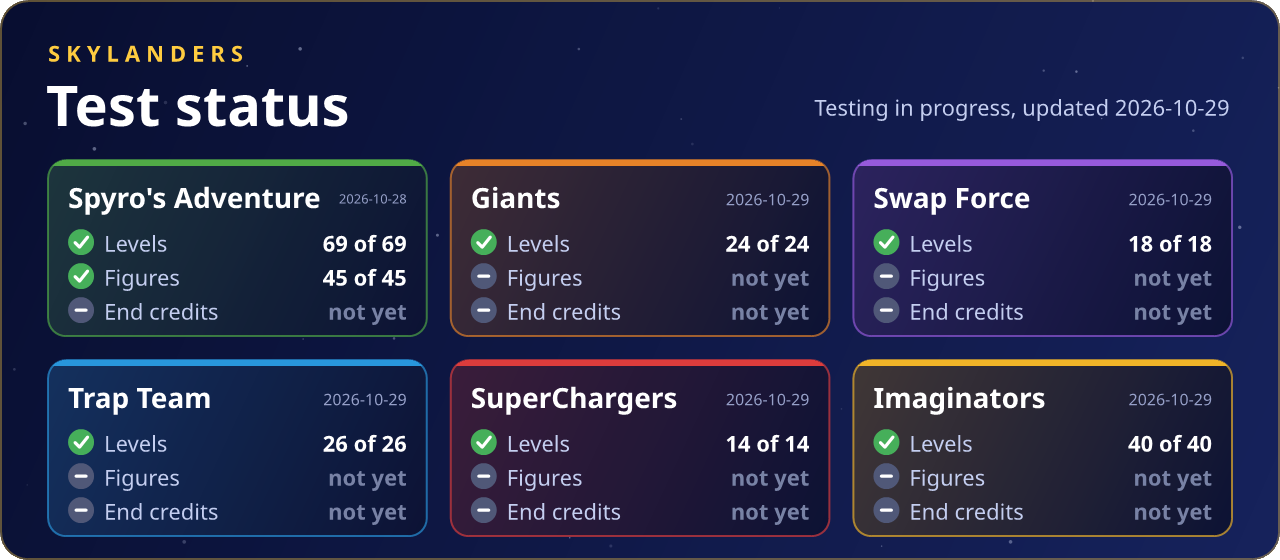
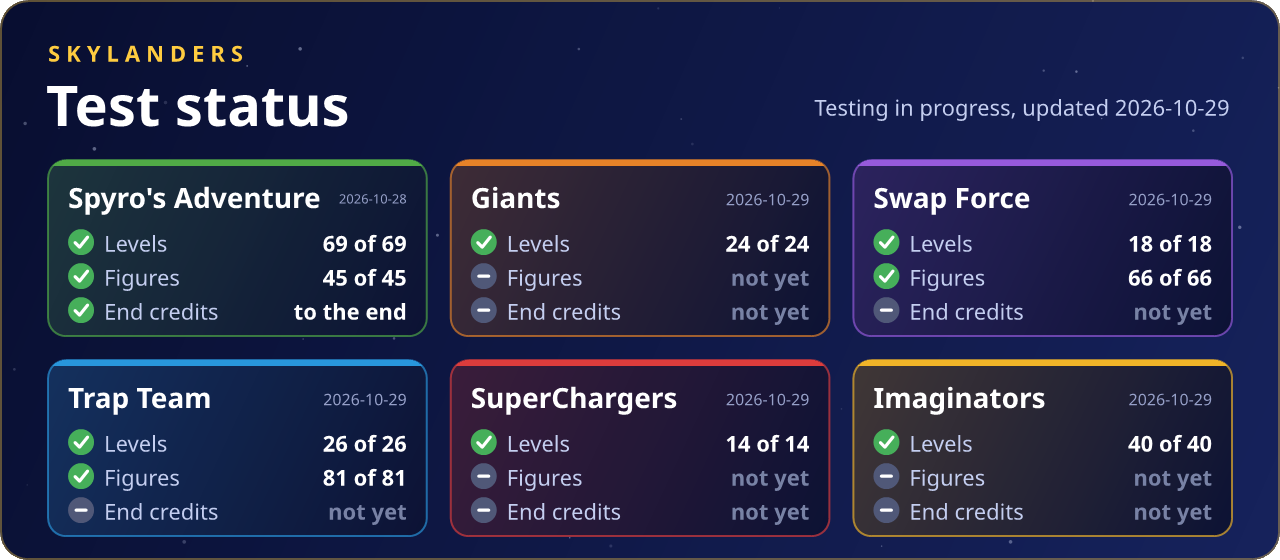
docs(testing): Trap Team and Swap Force figures, Spyro's Adventure credits
Every Trap Team figure (81) and every Swap Force figure and swapper (66) went on the portal as a
new one and came into the game; Spyro's Adventure's end credits played to the end.

diff --git a/TESTING.md b/TESTING.md
@@ -12,10 +12,10 @@ It doesn't replace playing: quests, bosses and two players still need people. [R
 
 | Game | Tested build | Levels | Figures | End credits |
 |---|---|---|---|---|
-| Spyro's Adventure | 0.3.0-beta.3+ (2026-10-28) | **69 of 69** | **45 of 45** | not yet |
+| Spyro's Adventure | 0.3.0-beta.3+ (2026-10-28) | **69 of 69** | **45 of 45** | to the end |
 | Giants | 0.3.0-beta.6, not out yet (2026-10-29) | **24 of 24** | not yet | not yet |
-| Swap Force | 0.3.0-beta.6, not out yet (2026-10-29) | **18 of 18** | not yet | not yet |
-| Trap Team | 0.3.0-beta.6, not out yet (2026-10-29) | **26 of 26** | not yet | not yet |
+| Swap Force | 0.3.0-beta.6, not out yet (2026-10-29) | **18 of 18** | **66 of 66** | not yet |
+| Trap Team | 0.3.0-beta.6, not out yet (2026-10-29) | **26 of 26** | **81 of 81** | not yet |
 | SuperChargers | 0.3.0-beta.6, not out yet (2026-10-29) | **14 of 14** | not yet | not yet |
 | Imaginators | 0.3.0-beta.6, not out yet (2026-10-29) | **40 of 40** | not yet | not yet |
 
@@ -33,6 +33,7 @@ Tested build: 0.3.0-beta.3+ (2026-10-28)
 | Skylanders, each as a new figure | 32 of 32 |
 | Variants, each as a new figure | 5 of 5 |
 | Magic items, each as a new figure | 8 of 8 |
+| End credits | played to the end |
 
 Found on the way:
 
@@ -60,6 +61,10 @@ Tested build: 0.3.0-beta.6, not out yet (2026-10-29)
 |---|---|
 | Levels | 18 of 18 loaded and played |
 | Lowest frame rate in a level | 56 FPS |
+| Skylanders, each as a new figure | 32 of 32 |
+| Swappers, each as a new figure | 16 of 16 |
+| LightCore Skylanders, each as a new figure | 8 of 8 |
+| Variants, each as a new figure | 10 of 10 |
 
 ## Trap Team
 
@@ -69,6 +74,11 @@ Tested build: 0.3.0-beta.6, not out yet (2026-10-29)
 |---|---|
 | Levels | 26 of 26 loaded and played |
 | Lowest frame rate in a level | 59 FPS |
+| Skylanders, each as a new figure | 23 of 23 |
+| Trap Masters, each as a new figure | 18 of 18 |
+| Eon's Elite, each as a new figure | 8 of 8 |
+| Minis, each as a new figure | 16 of 16 |
+| Variants, each as a new figure | 16 of 16 |
 
 ## SuperChargers
 
